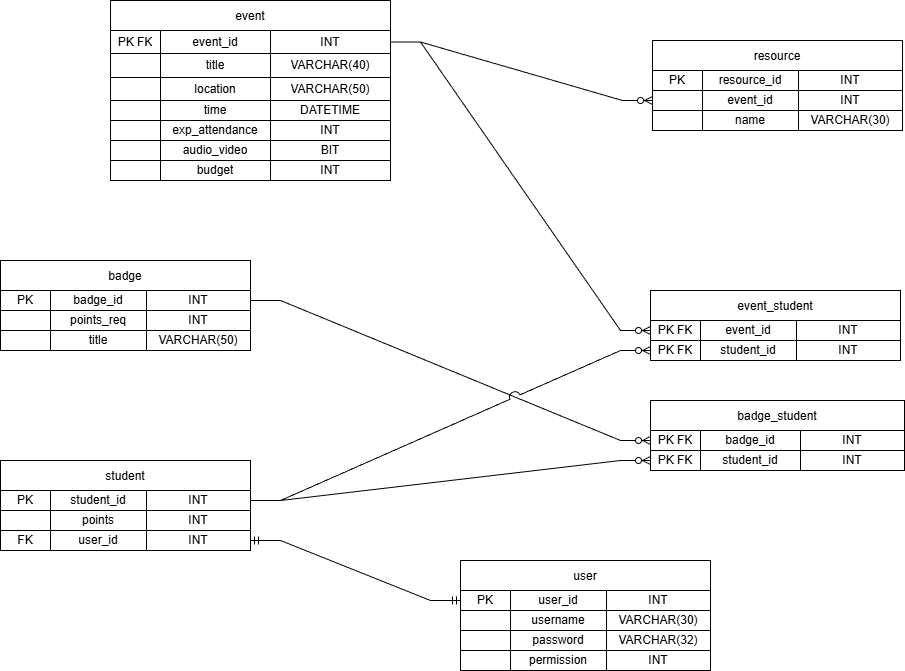
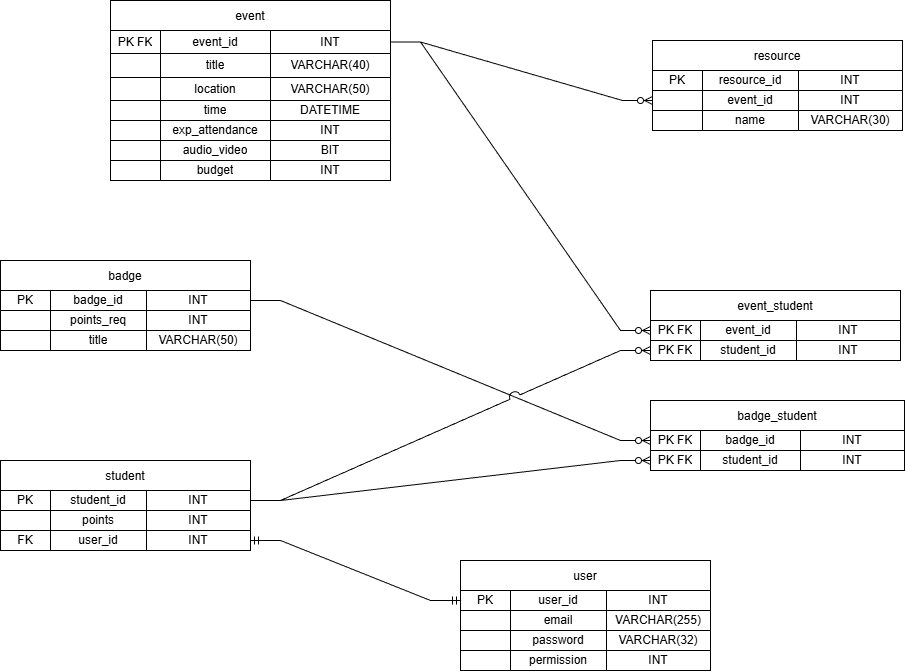
fixed database and socket stuff

diff --git a/StudentEngagementView/src/client.cpp b/StudentEngagementView/src/client.cpp
@@ -9,15 +9,16 @@
 #include <iostream>
 
 
+using namespace ::ste;
 using namespace ::ste::models;
 
 namespace {
 
+SOCKET Send(char* data, int dataLen);
 void PrintErrorN(std::string msg);
 void PrintErrorN(std::string msg, int n);
 
 sockaddr serverAddr;
-SOCKET sock;
 
 
 }; // namespace
@@ -56,7 +57,6 @@ bool Start() {
 
 
 void End() {
-  closesocket(sock);
   WSACleanup();
 }
 
@@ -64,43 +64,46 @@ void End() {
 
 
 void AddEvent(const Event& val) {
-  // Start socket
-  sock = socket(AF_INET, SOCK_STREAM, IPPROTO_TCP);
-  if (sock == INVALID_SOCKET) {
-    PrintError("Failed to start socket");
-    return;
-  }
-
-
-  int result = connect(sock, &serverAddr, sizeof(serverAddr));
-  if (result == SOCKET_ERROR) {
-    PrintErrorN("Failed to connect to server");
-    return;
-  }
   char sendBuf[_MSG_HEADER + sizeof(Event)];
-
   memcpy(sendBuf, _ADD_EVENT_MSG, _MSG_HEADER);
   memcpy(sendBuf + _MSG_HEADER, &val, sizeof(Event));
-
-  result = send(sock, sendBuf, _MSG_HEADER + sizeof(Event), 0);
-  if (result == SOCKET_ERROR) {
-    PrintErrorN("Failed to send AddEvent to server");
-  }
-
-  shutdown(sock, SD_BOTH);
-  closesocket(sock);
+  Send(sendBuf, sizeof(sendBuf));
 }
+
 
 void AddResource(const Resource& val) {
 
 }
 
+
 void GiveUserBadge(int user, int badge) {
 
 }
 
+
 void AddStudentToEvent(int student, int event) {
 
+}
+
+
+char LoginUser(char const email[255], char const password[32]) {
+  char sendBuf[_MSG_HEADER + 255 + 32];
+  memcpy(sendBuf, _LOGIN_USER, _MSG_HEADER);
+  memcpy(sendBuf + _MSG_HEADER, email, 30);
+  memcpy(sendBuf + _MSG_HEADER + 255, password, 32);
+  SOCKET sock = Send(sendBuf, sizeof(sendBuf));
+  if (sock == 0) {
+    return false;
+  }
+
+  char buf;
+  int result = recv(sock, &buf, 1, 0);
+  if (result == SOCKET_ERROR) {
+    PrintErrorN("Failed to receive from server");
+    return false;
+  }
+
+  return buf;
 }
 
 
@@ -113,6 +116,35 @@ void AddStudentToEvent(int student, int event) {
 
 
 namespace {
+
+
+SOCKET Send(char* data, int dataLen) {
+  // Start socket
+  SOCKET sock = socket(AF_INET, SOCK_STREAM, IPPROTO_TCP);
+  if (sock == INVALID_SOCKET) {
+    PrintError("Failed to start socket");
+    return 0;
+  }
+  DWORD timeo = 250;
+  //setsockopt(sock, SOL_SOCKET, SO_RCVTIMEO, (char*)&timeo, sizeof(DWORD));
+
+  int result = connect(sock, &serverAddr, sizeof(serverAddr));
+  if (result == SOCKET_ERROR) {
+    PrintErrorN("Failed to connect to server");
+    closesocket(sock);
+    return 0;
+  }
+
+  result = send(sock, data, dataLen, 0);
+  if (result == SOCKET_ERROR) {
+    PrintErrorN("Failed to send AddEvent to server");
+  } else if (result < dataLen) {
+    PrintErrorN("Partial Send");
+  }
+
+  return sock;
+}
+
 
 void PrintErrorN(std::string msg) {
   std::cerr << "[ERROR (" << WSAGetLastError() << ")] : " << msg << '\n';

diff --git a/StudentEngagementDatabase/src/database.cpp b/StudentEngagementDatabase/src/database.cpp
@@ -23,7 +23,7 @@ sqlite3* db = nullptr;
 namespace ste {
 namespace database {
 
-void Start() {
+bool Start() {
   char* errMsg = nullptr;
 
   // Checks if need to generate tables
@@ -39,7 +39,7 @@ void Start() {
   // If the initialization scripts exist
   if (!std::filesystem::exists("sql/init/")) {
     PrintError("Failed to find initialization scripts");
-    return;
+    return true;
   }
 
 
@@ -70,6 +70,7 @@ void Start() {
     str.close();
   }
 
+
   // Execute all init statements
   result = sqlite3_exec(db, sqlGlob, nullptr, nullptr, &errMsg);
   if (result != SQLITE_OK) {
@@ -82,6 +83,35 @@ void Start() {
   }
 
   free(sqlGlob);
+
+  return exists;
+}
+
+
+void Fill() {
+  if (!std::filesystem::exists("sql/startup.sql")) {
+    return;
+  }
+
+  char* buffer = nullptr;
+  std::ifstream str("sql/startup.sql", std::ios::binary);
+  size_t size = std::filesystem::file_size("sql/startup.sql");
+  buffer = (char*)calloc(size + 1, 1);
+  str.read(buffer, size);
+  str.close();
+
+  char* errMsg = nullptr;
+  int result = sqlite3_exec(db, buffer, nullptr, nullptr, &errMsg);
+  if (result != SQLITE_OK) {
+    if (errMsg != nullptr) {
+      PrintError(errMsg);
+      sqlite3_free(errMsg);
+    } else {
+      PrintError("Failed to call initialization scripts");
+    }
+  }
+
+  free(buffer);
 }
 
 
@@ -114,6 +144,7 @@ void AddEvent(const Event& val) {
 }
 
 
+
 void AddResource(const Resource& val) {
   static char const* sql = "INSERT INTO resource (event_id, name) VALUES (?, ?);";
   sqlite3_stmt* stmt = nullptr;
@@ -129,6 +160,7 @@ void AddResource(const Resource& val) {
 
   sqlite3_finalize(stmt);
 }
+
 
 
 void GiveUserBadge(int user, int badge) {
@@ -148,6 +180,7 @@ void GiveUserBadge(int user, int badge) {
 }
 
 
+
 void AddStudentToEvent(int student, int event) {
   static char const* sql = "INSERT INTO event_student (event_id, student_id) VALUES (?, ?);";
   sqlite3_stmt* stmt = nullptr;
@@ -164,6 +197,30 @@ void AddStudentToEvent(int student, int event) {
   sqlite3_finalize(stmt);
 }
 
+
+
+char LoginUser(char email[255], char password[32]) {
+  static char const* sql = "SELECT * FROM user WHERE username = ? AND password = ?";
+
+  sqlite3_stmt* stmt = nullptr;
+  int result = sqlite3_prepare(db, sql, -1, &stmt, nullptr);
+  if (result != SQLITE_OK) {
+    PrintError("Failed to generate AddStudentToEvent statement");
+    return -1;
+  }
+  sqlite3_bind_text(stmt, 1, email, -1, SQLITE_STATIC);
+  sqlite3_bind_text(stmt, 2, password, -1, SQLITE_STATIC);
+
+  result = sqlite3_step(stmt);
+
+  if (result != SQLITE_ROW) {
+    sqlite3_finalize(stmt);
+    return -1;
+  }
+
+  int perm = sqlite3_column_int(stmt, 3);
+  return perm;
+}
 
 
 }; // namespace database

diff --git a/StudentEngagementView/src/views/loginView.cpp b/StudentEngagementView/src/views/loginView.cpp
@@ -5,14 +5,14 @@
 #include "client.h"
 #include "models.h"
 
+using namespace ::ste;
+using namespace ::ste::models;
 
 namespace ste {
 
-void SendEvent(Program* const prog, Object* obj, const MouseEvent& event) {
-  models::Event ev = {0, "Event", "PMC232", "2025-02-01T07:02", 12, true, 1000};
-
-
-  client::AddEvent(ev);
+void SendLogin(Program* const prog, Object* obj, const MouseEvent& event) {
+  char ret = client::LoginUser("test_admin", "admin1");
+  std::cout << (int)ret << '\n';
 }
 
 namespace views {
@@ -60,7 +60,7 @@ void Initialize(Program* const prog) {
   emailBox->centerText = true;
   //smallObj2->vertCenterText = true;
 
-  emailBox->onClickPress = SendEvent;
+  emailBox->onClickPress = SendLogin;
   emailBox->cycle = ::ste::callbacks::ButtonCycle;
   emailBox->SetCurrent();
 

diff --git a/StudentEngagementDatabase/src/server.cpp b/StudentEngagementDatabase/src/server.cpp
@@ -108,7 +108,6 @@ bool Start() {
 
 
 void Run() {
-  
   sockaddr clientAddr;
   int length = sizeof(sockaddr);
 
@@ -137,6 +136,7 @@ void Run() {
         semaphores[i]->release();
         activeThreads[i] = std::thread(HandleRequest, client, semaphores[i]);
         started = true;
+        break;
       }
     }
 
@@ -192,6 +192,10 @@ void HandleRequest(SOCKET client, std::shared_ptr<std::binary_semaphore> semapho
   if (memcmp(recvBuf, _ADD_EVENT_MSG, _MSG_HEADER) == 0) {
     Event* event = (Event*)(recvBuf + _MSG_HEADER);
     database::AddEvent(*event);
+  } else if (memcmp(recvBuf, _LOGIN_USER, _MSG_HEADER) == 0) {
+    char result = database::LoginUser(recvBuf + _MSG_HEADER, recvBuf + _MSG_HEADER + 255);
+
+    send(client, &result, sizeof(result), 0);
   }
 
 

diff --git a/StudentEngagementDatabase/src/database.h b/StudentEngagementDatabase/src/database.h
@@ -6,7 +6,9 @@
 namespace ste {
 namespace database {
 
-void Start();
+
+bool Start();
+void Fill();
 
 
 void AddEvent(const models::Event& val);
@@ -15,6 +17,7 @@ void AddResource(const models::Resource& val);
 void GiveUserBadge(int user, int badge);
 void AddStudentToEvent(int student, int event);
 
+char LoginUser(char email[255], char password[32]);
 
 void End();
 

diff --git a/StudentEngagementView/src/constants.h b/StudentEngagementView/src/constants.h
@@ -22,6 +22,8 @@ constexpr int _MSG_BODY = _SEND_BUF_LENGTH - _MSG_HEADER;
 // --------------------------------------------------
 
 constexpr char const _ADD_EVENT_MSG[_MSG_HEADER] = "AddEvent";
+constexpr char const _LOGIN_USER[_MSG_HEADER] = "LoginUser";
+
 
 // --------------------------------------------------
 // Headers

diff --git a/StudentEngagementView/src/objectCallbacks.h b/StudentEngagementView/src/objectCallbacks.h
@@ -26,6 +26,11 @@ inline void ButtonCycle(Program* const prog, Object* obj, const MouseEvent& even
   }
 }
 
+
+inline void InputFieldEnter(Program* const prog, Object* obj, const MouseEvent& event) {
+  prog->appendCharactersInto = &obj->text;
+};
+
 }; // namespace callbacks
 }; // namespace ste
 

diff --git a/StudentEngagementDatabase/src/constants.h b/StudentEngagementDatabase/src/constants.h
@@ -13,6 +13,7 @@ constexpr int _MSG_HEADER = 16;
 constexpr int _MSG_BODY = _RECV_BUF_LENGTH - _MSG_HEADER;
 
 constexpr char const _ADD_EVENT_MSG[_MSG_HEADER] = "AddEvent";
+constexpr char const _LOGIN_USER[_MSG_HEADER] = "LoginUser";
 
 }; // namespace ste
 

diff --git a/StudentEngagementView/src/client.h b/StudentEngagementView/src/client.h
@@ -14,6 +14,8 @@ void AddResource(const models::Resource& val);
 void GiveUserBadge(int user, int badge);
 void AddStudentToEvent(int student, int event);
 
+char LoginUser(char const email[255], char const password[32]);
+
 
 void End();
 

diff --git a/StudentEngagementDatabase/src/main.cpp b/StudentEngagementDatabase/src/main.cpp
@@ -7,7 +7,9 @@ using namespace ::ste::models;
 
 
 int main() {
-  database::Start();
+  if (!database::Start())
+    database::Fill();
+
 
   if (!server::Start())
     return 1;

diff --git a/StudentEngagementDatabase/src/models.h b/StudentEngagementDatabase/src/models.h
@@ -51,7 +51,7 @@ struct Student {
 struct User {
   int user_id;
   char username[31];
-  char password[33];
+  char email[256];
   int permission;
 };
 

diff --git a/StudentEngagementView/src/models.h b/StudentEngagementView/src/models.h
@@ -51,7 +51,7 @@ struct Student {
 struct User {
   int user_id;
   char username[31];
-  char password[33];
+  char email[255];
   int permission;
 };
 
